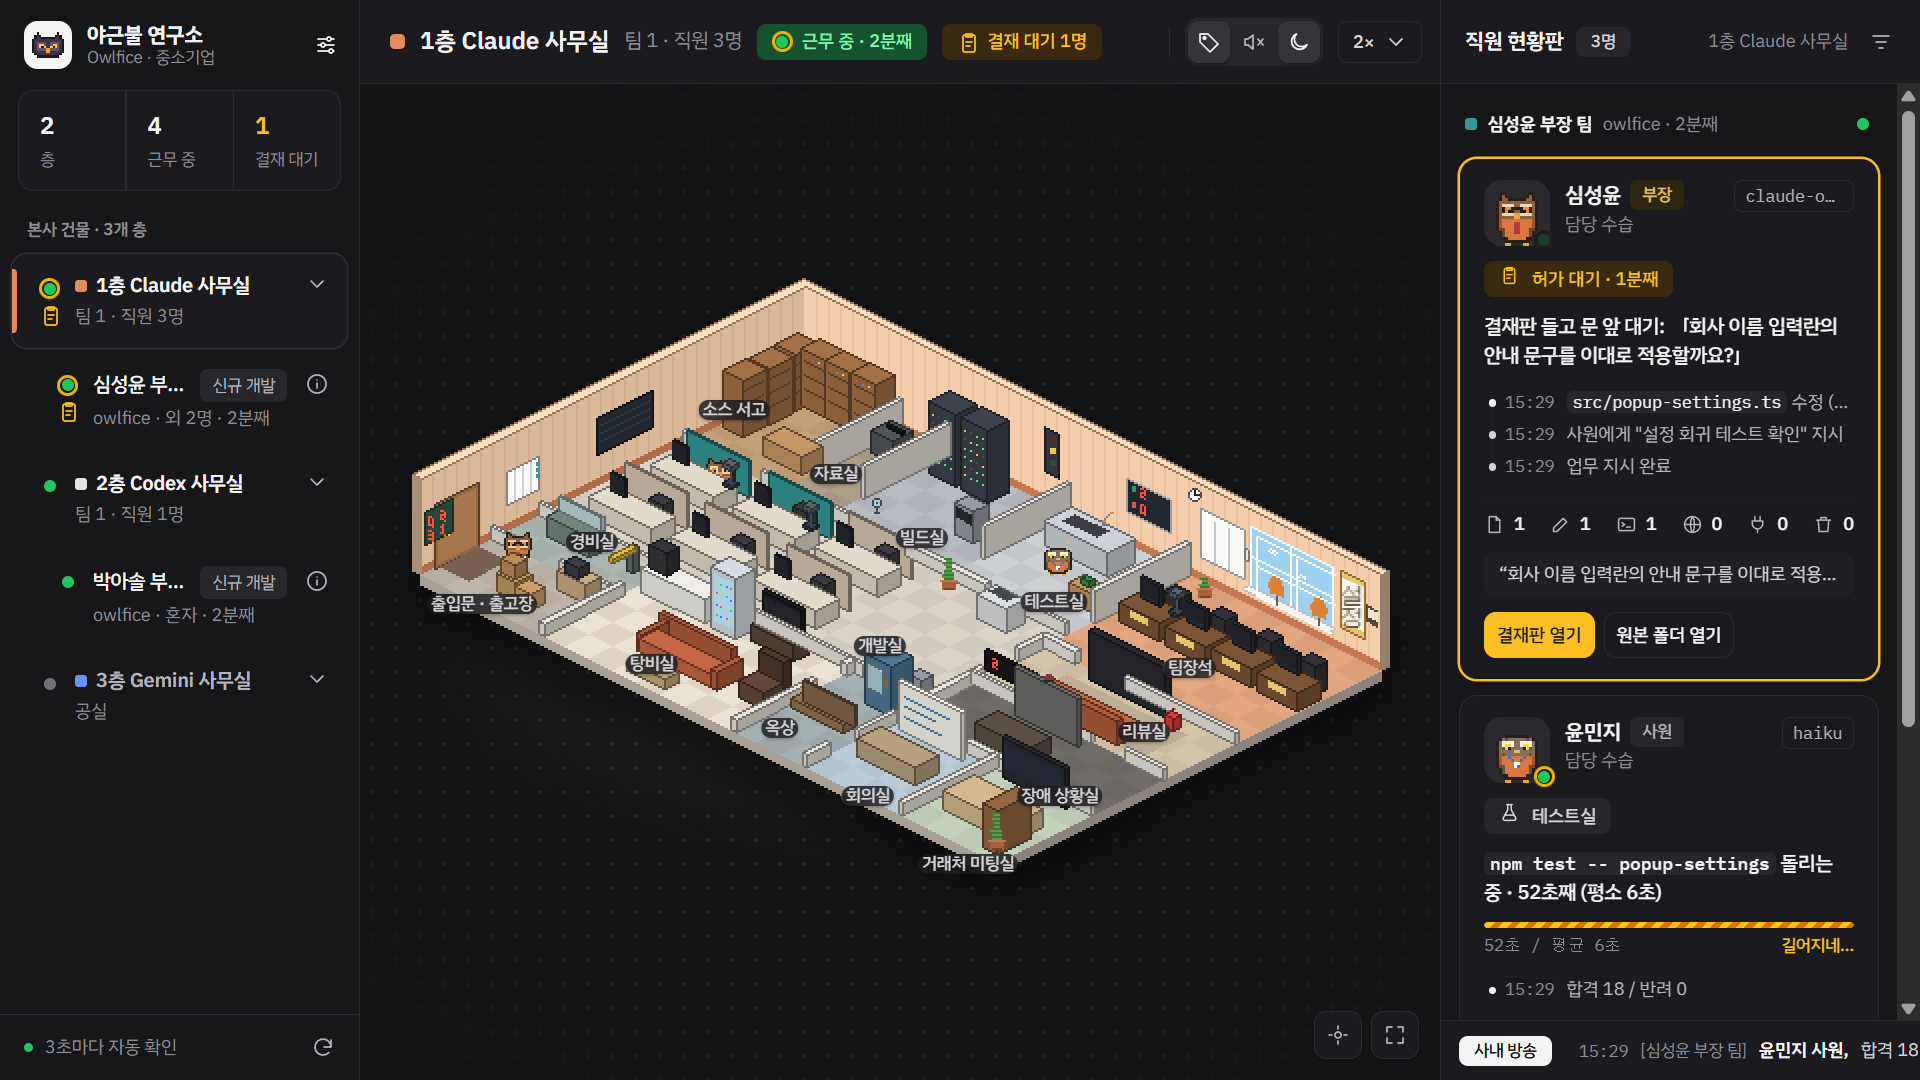
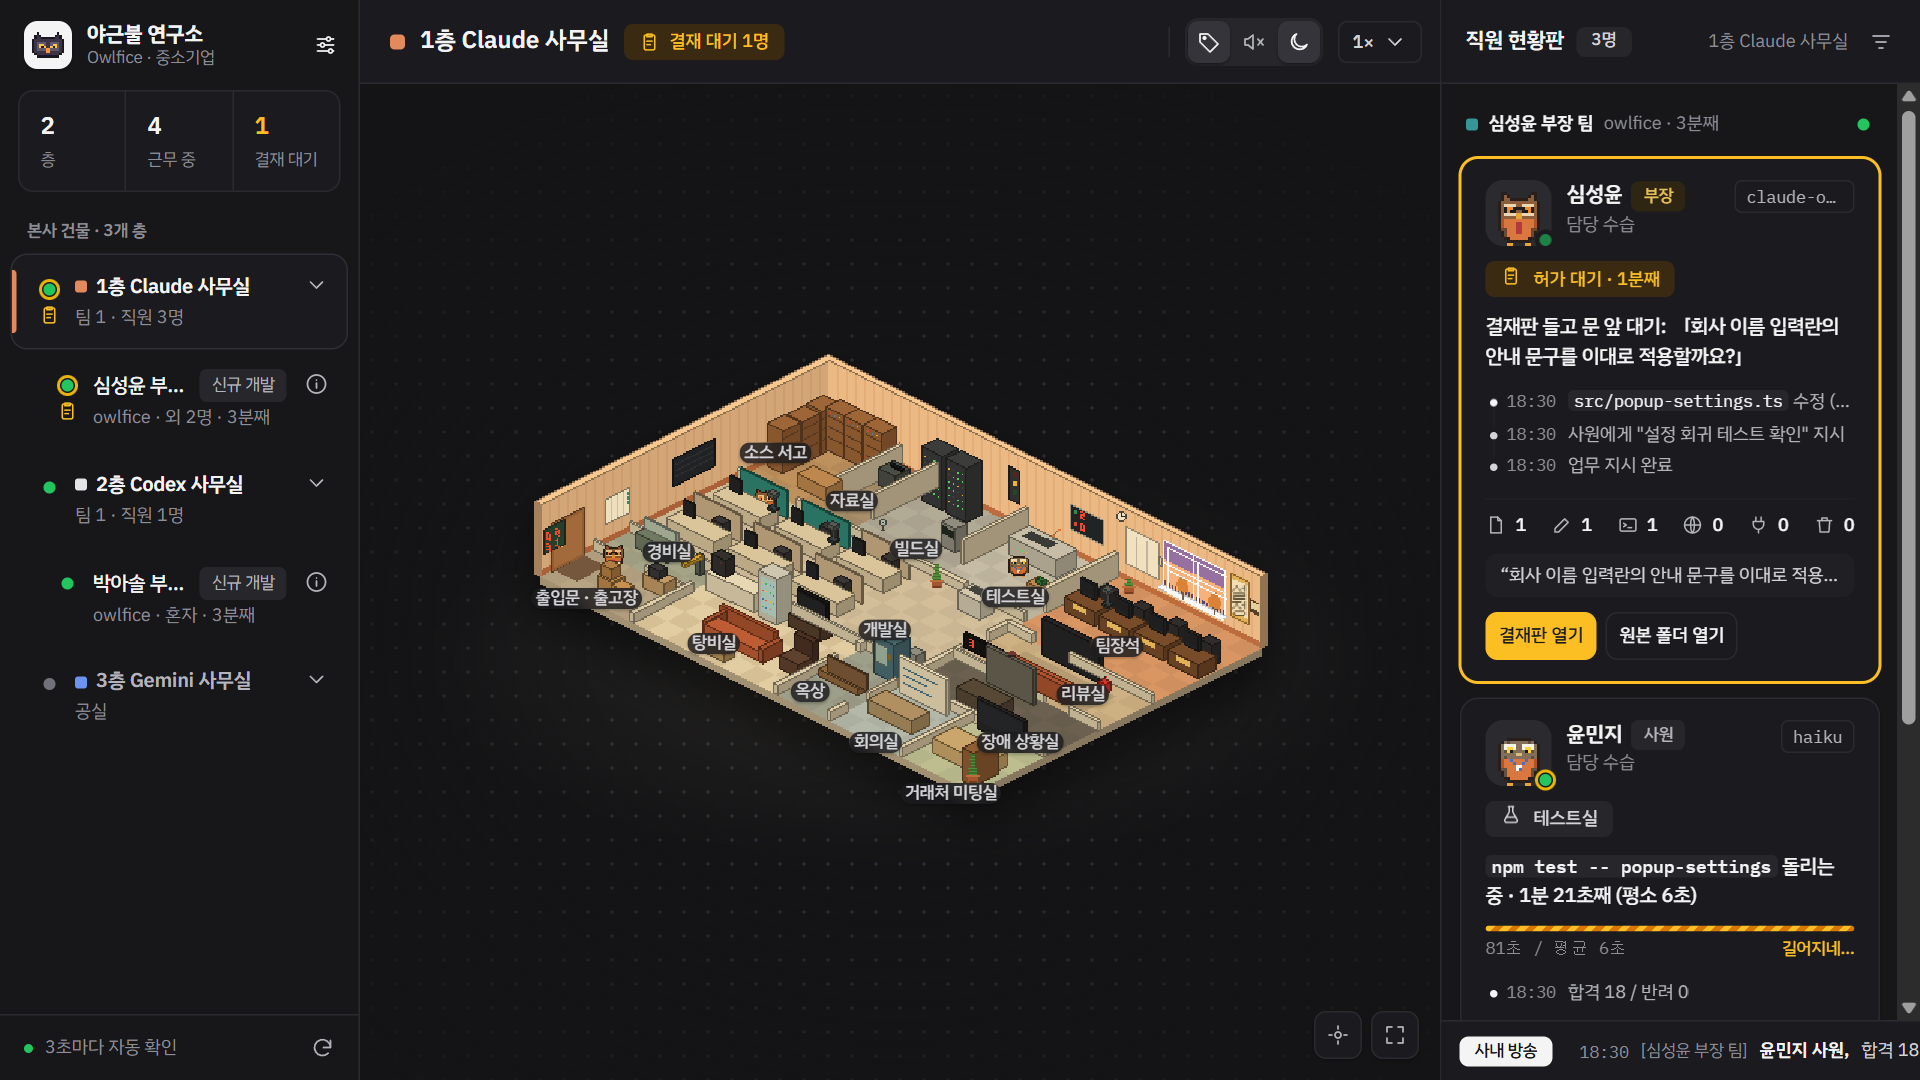
T103 전체 리뷰의 화면·승인 판정·설정 호환 문제를 수정한다
좁은 머리말과 야근 대비, 드로어·미니맵 배치, 세션 아바타를 실제 실행 파일로 재검수했다. 개발 화면의 CSS 순서와 상세·업데이트 미리보기를 앱에 맞추고 README 캡처를 갱신했다.

프론트 519개와 Rust 491개 테스트, 린트·타입·포맷 검사를 통과했다. 최종 아바타 변경은 상세 팝업 13개 테스트와 20×22 실제 화면 검사로 확인했다. 서명 설치 후보를 재생성했으며 main 병합·정식 태그·릴리스·배포는 보류한다.

diff --git a/dev/company.ts b/dev/company.ts
@@ -1,6 +1,8 @@
+import "../design/handoff/tokens.css";
 import "../src/styles/app.css";
 import { mountHeader } from "../src/header.ts";
 import { mountOffice, type OfficeHandle } from "../src/office/renderer.ts";
+import { openSessionDetail } from "../src/popup-session.ts";
 import { openEmployeeDetail } from "../src/popup-employee.ts";
 import type { Invoke } from "../src/scale.ts";
 import { mountSidebar, popupNames } from "../src/sidebar-left.ts";
@@ -15,6 +17,7 @@ import type {
   OfficeListDto,
   OfficeSummaryDto,
   Scale,
+  SessionDetailDto,
   TeamDto,
 } from "../src/types/ipc.ts";
 
@@ -144,8 +147,9 @@ function openEmployee(
   teamId: string,
   agentId: string,
   opener?: HTMLElement,
+  sessionName?: string,
 ): void {
-  const selectedTeam = store.state.office?.teams.find((t) => t.teamId === teamId);
+  const selectedTeam = teams.find((t) => t.teamId === teamId);
   const employee = selectedTeam?.employees.find((e) => e.agentId === agentId);
   if (!selectedTeam || !employee) return;
   // README용 합성 기록이다. 파일 이름과 명령은 표시할 문자열이며 읽거나 실행하지 않는다.
@@ -191,12 +195,47 @@ function openEmployee(
   });
   const invoke: Invoke = async <T>(cmd: string, args?: Record<string, unknown>): Promise<T> => {
     if (cmd === "open_path") throw new Error("합성 미리보기에서는 원본 파일을 열지 않습니다.");
+    if (cmd === "get_session_detail") {
+      if (args?.officeId !== officeId || args.teamId !== teamId)
+        throw new Error("합성 세션 정보가 일치하지 않습니다.");
+      const session: SessionDetailDto = {
+        sessionId: `synthetic-${teamId}`,
+        title: selectedTeam.title,
+        building: selectedTeam.building,
+        hostLabel: "Windows (합성)",
+        workType: selectedTeam.workType,
+        cwd: "C:/samples/owlfice",
+        gitBranch: "synthetic-preview",
+        model: detail.model,
+        started: selectedTeam.started,
+        lastActivity: selectedTeam.lastActivity,
+        turns: 3,
+        tokens: { input: 1200, output: 300 },
+        headcount: { bujang: 1, gwajang: 0, daeri: 1, sawon: 0 },
+        pr: null,
+        recent: events,
+        recentError: null,
+      };
+      return session as T;
+    }
     if (args?.officeId !== officeId || args.teamId !== teamId || args.agentId !== agentId)
       throw new Error("합성 직원 정보가 일치하지 않습니다.");
     if (cmd === "get_employee_detail") return detail as T;
     if (cmd === "get_employee_timeline") return (args.before === null ? events : []) as T;
     throw new Error(`합성 응답이 없는 명령: ${cmd}`);
   };
+  if (sessionName) {
+    openSessionDetail(
+      {
+        invoke,
+        live: (id, agent) =>
+          teams.find((t) => t.teamId === id)?.employees.find((e) => e.agentId === agent),
+      },
+      { officeId, teamId, name: sessionName },
+      opener,
+    );
+    return;
+  }
   openEmployeeDetail(
     {
       invoke,
@@ -238,6 +277,10 @@ mountSidebar(
   },
   {
     companyName,
+    onDetail: (officeId, teamId, name, opener) => {
+      const boss = teams.find((t) => t.teamId === teamId)?.employees[0];
+      if (boss) openEmployee(officeId, teamId, boss.agentId, opener, name);
+    },
     onTeam: (officeId, teamId) => {
       panel.showTeam(officeId, teamId);
       if (view) view.highlightTeam(officeId, teamId);

diff --git a/design/handoff/tokens.css b/design/handoff/tokens.css
@@ -185,14 +185,14 @@
 .ow-truncate { overflow: hidden; text-overflow: ellipsis; white-space: nowrap; min-width: 0; }
 .ow-px { image-rendering: pixelated; display: block; }
 .ow-icon { width: 16px; height: 16px; flex: none; }
-.ow-icon--sm { width: 14px; height: 14px; }
+.ow-icon--sm, .ow-icon--sm svg { width: 14px; height: 14px; }
 
 /* ---------- 아이콘 버튼 ---------- */
 .ow-iconbtn { width: 32px; height: 32px; display: inline-flex; align-items: center; justify-content: center; border-radius: var(--ow-radius-md); color: var(--ow-ink-2); flex: none; transition: background var(--ow-dur-1) var(--ow-ease), color var(--ow-dur-1) var(--ow-ease); }
 .ow-iconbtn:hover { background: var(--ow-fill); color: var(--ow-ink); }
 .ow-iconbtn[aria-pressed="true"] { background: var(--ow-fill); color: var(--ow-ink); }
 .ow-iconbtn--sm { width: 28px; height: 28px; }
-.ow-iconbtn--solid[aria-expanded="true"] { background: var(--ow-ink); color: #fff; }
+.ow-iconbtn--solid[aria-expanded="true"] { background: var(--ow-ink); color: var(--ow-bg); }
 .ow-iconbtn--raised { background: var(--ow-surface); border: 1px solid var(--ow-line); box-shadow: var(--ow-elev-1); } /* 무대 모서리 버튼 */
 .ow-segment { display: inline-flex; align-items: center; height: 32px; padding: 2px; border-radius: 9px; background: var(--ow-fill); gap: 2px; } /* 머리말 아이콘 토글 묶음 */
 .ow-segment .ow-iconbtn { width: 28px; height: 28px; border-radius: 7px; transition: background var(--ow-dur-seg) var(--ow-ease); }
@@ -297,7 +297,7 @@
 .ow-nametag { position: absolute; transform: translate(-50%, calc(-100% - 6px)); background: var(--ow-ink); color: #fff; border-radius: var(--ow-radius-md); padding: 7px 10px; font-size: 12px; line-height: 17px; box-shadow: var(--ow-shadow-tip); white-space: nowrap; }
 .ow-nametag b { font-weight: 600; }
 .ow-nametag span { color: #D4D4D8; }
-.ow-roomlabel { position: absolute; transform: translate(-50%, -50%); background: var(--ow-roomlabel-bg); backdrop-filter: blur(4px); box-shadow: var(--ow-elev-1); color: var(--ow-roomlabel-ink); border: 1px solid rgba(24, 24, 27, 0.08); border-radius: var(--ow-radius-full); padding: 0 2px; line-height: 12px; font-size: 11px; font-weight: 500; color: var(--ow-ink-2b); white-space: nowrap; }
+.ow-roomlabel { position: absolute; transform: translate(-50%, -50%); background: var(--ow-roomlabel-bg); backdrop-filter: blur(4px); box-shadow: var(--ow-elev-1); color: var(--ow-roomlabel-ink); border: 1px solid rgba(24, 24, 27, 0.08); border-radius: var(--ow-radius-full); padding: 0 2px; line-height: 12px; font-size: 11px; font-weight: 500; white-space: nowrap; }
 .ow-parallel, .ow-crowd { position: absolute; background: var(--ow-ink); color: #fff; font: 600 10px/1 var(--ow-font-mono); padding: 3px 5px; border-radius: 5px; }
 .ow-zz { position: absolute; font: 600 11px var(--ow-font-mono); color: var(--ow-ink-2b); letter-spacing: 1px; }
 .ow-minimap { position: absolute; right: 10px; bottom: 10px; padding: 4px; border-radius: var(--ow-radius-lg); background: var(--ow-surface); box-shadow: var(--ow-shadow-pop); }

diff --git a/dev/settings.ts b/dev/settings.ts
@@ -7,7 +7,7 @@ import { openSettings, saveSettings } from "../src/popup-settings.ts";
 import type { Invoke } from "../src/scale.ts";
 import { mountSidebar } from "../src/sidebar-left.ts";
 import { mountPanel } from "../src/sidebar-right.ts";
-import { createStore } from "../src/store.ts";
+import { createStore, createUpdateStore } from "../src/store.ts";
 import { act, emp, office, team } from "../src/test-office.ts";
 import type { OfficeDto, OfficeListDto, SettingsDto } from "../src/types/ipc.ts";
 
@@ -22,6 +22,31 @@ let settings: SettingsDto = {
   osNotifications: true,
   rawDiagnostics: false,
 };
+// 합성 진행은 버튼으로 한 단계씩 보내 검수 중에도 표시를 유지한다.
+let advanceUpdate: (() => void) | undefined;
+const updates = createUpdateStore({
+  getVersion: async () => "0.2.0",
+  check: async () => ({
+    version: "0.2.1",
+    downloadAndInstall: (progress) =>
+      new Promise<void>((resolve) => {
+        progress?.({ event: "Started", data: { contentLength: 1024 } });
+        advanceUpdate = () => {
+          progress?.({ event: "Progress", data: { chunkLength: 512 } });
+          advanceUpdate = () => {
+            progress?.({ event: "Progress", data: { chunkLength: 512 } });
+            progress?.({ event: "Finished" });
+            advanceUpdate = () => {
+              advanceUpdate = undefined;
+              resolve();
+            };
+          };
+        };
+      }),
+    close: async () => {},
+  }),
+});
+window.addEventListener("beforeunload", () => updates.destroy(), { once: true });
 let failSave = false;
 let failCopy = false;
 let failGet = false;
@@ -149,6 +174,7 @@ const open = (opener: HTMLElement) =>
       invoke,
       onSettings: applySettings,
       writeClipboard,
+      updates,
       onError(message) {
         get("status").textContent = message;
       },
@@ -189,6 +215,7 @@ mountOffice(get("stage"), store, { onScale: (n) => header.setScale(n) }).then(
     get("status").textContent = `캔버스 로드 실패: ${String(error)}`;
   },
 );
+get("update-progress").addEventListener("click", () => advanceUpdate?.());
 get("open").addEventListener("click", () => open(get("open")));
 get("fail-save").addEventListener("click", () => {
   failSave = true;

diff --git a/src/popup-session.ts b/src/popup-session.ts
@@ -4,6 +4,7 @@ import checkSvg from "../design/handoff/icons/check.svg?raw";
 import copySvg from "../design/handoff/icons/copy.svg?raw";
 import fileSvg from "../design/handoff/icons/file.svg?raw";
 import folderSvg from "../design/handoff/icons/folder.svg?raw";
+import { setAvatar } from "./avatar.ts";
 import { detailErrorText, hms, openModal, smallIcon, type LiveEmployee } from "./popup-modal.ts";
 import type { Invoke } from "./scale.ts";
 import { h, icon, setRich } from "./sidebar-right.ts";
@@ -211,13 +212,16 @@ export function openSessionDetail(
     return emp ? `${emp.name} ${rankLabel(emp.rank)}` : e.agentId;
   }
 
-  function eventRow(e: EventDto): HTMLElement {
+  function eventRow(e: EventDto, building: string): HTMLElement {
+    const avatar = h(doc, "span", "ow-avatar ow-avatar--sm");
+    const employee = e.kind === "UserMessage" ? undefined : deps.live(teamId, e.agentId);
+    if (employee) setAvatar(avatar, employee, building);
     const row = h(doc, "div", "ow-tl");
     const what = h(doc, "span", "ow-tl__what");
     setRich(what, e.summary);
     row.append(
       h(doc, "span", "ow-tl__time", hms(e.ts)),
-      h(doc, "span", "ow-avatar ow-avatar--sm"),
+      avatar,
       h(doc, "span", "ow-tl__who", who(e)),
       what,
       e.confidence === "Inferred" ? h(doc, "span", "ow-est-tag", phrases.card.estimate) : "",
@@ -244,7 +248,7 @@ export function openSessionDetail(
       p.setAttribute("role", "alert");
       parts.push(p);
     } else {
-      parts.push(...dto.recent.map(eventRow));
+      parts.push(...dto.recent.map((e) => eventRow(e, dto.building)));
       // 20개를 채워 받았을 때만 더 있을 수 있다. 100개가 끝이다
       if (limit < MAX && dto.recent.length >= limit) {
         const more = h(doc, "button", "ow-pop__more", S.more);

diff --git a/src/sidebar-left.ts b/src/sidebar-left.ts
@@ -50,7 +50,7 @@ export interface SidebarOptions {
 }
 
 type SidebarMode = "full" | "rail" | "select";
-const RAIL_BELOW = 900; // 3.2: 900 미만 레일
+const RAIL_BELOW = 900; // 2.2: 900 미만 레일
 const HIDE_BELOW = 720; // 720 미만 숨김, 상단 띠 <select>
 const TOAST_MS = 3000;
 const ELAPSED_TICK_MS = 60_000;
@@ -500,6 +500,7 @@ function diffToasts(prev: OfficeListDto, next: OfficeListDto): ToastMsg[] {
 function toastEl(doc: Document, m: ToastMsg): El {
   const el = mk(doc, "div", "ow-toast");
   if (m.kind === "evicted") el.append(svgSpan(doc, evictedSvg, "ow-icon ow-icon--sm"));
+  else if (m.kind === "update") el.append(svgSpan(doc, refreshSvg, "ow-icon ow-icon--sm"));
   else {
     const dot = mk(doc, "span", "ow-dot");
     dot.dataset.state = m.kind === "off" ? "off" : "working";

diff --git a/src/sidebar-left.test.ts b/src/sidebar-left.test.ts
@@ -427,6 +427,15 @@ test("토스트: 입주·퇴근·재출근·퇴거를 3초씩 차례로", () => 
   s.dispose();
 });
 
+test("업데이트 알림은 근무 상태 점 대신 중립 아이콘을 쓴다", () => {
+  const s = setup(list([office("101")]));
+  s.dispose.notifyUpdate("0.2.1");
+  expect(s.slot.textContent).toContain("0.2.1");
+  expect(s.slot.querySelector(".ow-dot")).toBeNull();
+  expect(s.slot.querySelector(".ow-icon svg")).not.toBeNull();
+  s.dispose();
+});
+
 test("조용한 재구성이면 토스트가 없다", () => {
   const s = setup(list([office("101")]));
   s.store.applyList(list([office("101"), office("102")], "Large", { rebuilt: true }));

diff --git a/src/styles/sidebar.css b/src/styles/sidebar.css
@@ -128,7 +128,17 @@
   min-width: 0;
 }
 .ow-row__meta {
+  display: flex;
+  gap: 3px;
   white-space: nowrap;
+}
+.ow-row__head {
+  min-width: 0;
+  overflow: hidden;
+  text-overflow: ellipsis;
+}
+.ow-row__elapsed {
+  flex: none;
 }
 .ow-row.is-floor .ow-row__fold {
   margin-top: 6px;
@@ -259,10 +269,10 @@ html:not([data-theme="night"]) .ow-rail__item.is-claude {
   height: 32px;
   flex: 1;
   min-width: 0;
-  border: 1px solid #d4d4d8;
+  border: 1px solid var(--ow-line);
   border-radius: var(--ow-radius-md);
   padding: 0 10px;
-  background: #fff;
+  background: var(--ow-surface);
   font: 500 13px var(--ow-font-sans);
   color: var(--ow-ink);
 }

diff --git a/src/styles/app.css b/src/styles/app.css
@@ -63,6 +63,9 @@ body {
   overflow: hidden;
   text-overflow: ellipsis;
 }
+.ow-header__title {
+  flex: none;
+}
 .ow-header__sub {
   color: var(--ow-ink-3);
   font-size: 13px;
@@ -128,6 +131,16 @@ body {
 }
 .ow-header__work {
   display: none;
+}
+@media (width < 1300px) {
+  .ow-app[data-layout="wide"] .ow-header__sub,
+  .ow-app[data-layout="wide"] .ow-header__session,
+  .ow-app[data-layout="wide"] .ow-header__state {
+    display: none;
+  }
+}
+.ow-stage:has(.ow-minimap:not([hidden])) .ow-stage__tools {
+  bottom: 100px;
 }
 .ow-header--strip {
   height: var(--ow-band-h);

diff --git a/src/styles/panel.css b/src/styles/panel.css
@@ -10,6 +10,8 @@
   height: 48px;
 }
 .ow-panel__title {
+  flex: none;
+  white-space: nowrap;
   margin: 0;
   font-size: 14px;
   font-weight: 600;
@@ -19,6 +21,7 @@
   font-size: 11.5px;
 }
 .ow-panel__office {
+  min-width: 0;
   margin-left: auto;
   font-size: 12px;
   color: var(--ow-ink-3);
@@ -50,7 +53,8 @@
   pointer-events: none;
 }
 .ow-panel__toast {
-  background: #fff;
+  background: var(--ow-surface);
+  color: var(--ow-ink);
   border-radius: var(--ow-radius-md);
   box-shadow: var(--ow-shadow-pop);
   padding: 8px 12px;

diff --git a/src/header.ts b/src/header.ts
@@ -27,7 +27,7 @@ export function applyNightMode(doc: Document, mode: NightMode, now = Date.now())
 }
 
 type Layout = "wide" | "drawer" | "rail" | "select";
-/** 3.2 표의 너비 구간. 사이드바(900/720)와 현황판(900) 경계가 같다 */
+/** 2.2 표의 너비 구간. 사이드바(900/720)와 현황판(900) 경계가 같다 */
 export function layoutOf(width: number): Layout {
   return width >= 1100 ? "wide" : width >= 900 ? "drawer" : width >= 720 ? "rail" : "select";
 }

diff --git a/dev/settings.html b/dev/settings.html
@@ -45,6 +45,7 @@
     <section class="controls" aria-label="설정 검증 조작">
       <strong>설정 확인 (합성 데이터)</strong>
       <button id="open">설정 열기</button>
+      <button id="update-progress">합성 설치 다음 단계</button>
       <button id="fail-save">다음 저장 실패</button>
       <button id="fail-copy">다음 복사 실패</button>
       <button id="fail-get">다음 설정 읽기 실패</button>

diff --git a/src/header.test.ts b/src/header.test.ts
@@ -131,7 +131,7 @@ function setup(
   };
 }
 
-test("3.2 표의 너비 경계", () => {
+test("2.2 표의 너비 경계", () => {
   expect([1600, 1100, 1099, 900, 899, 720, 719].map(layoutOf)).toEqual([
     "wide",
     "wide",
